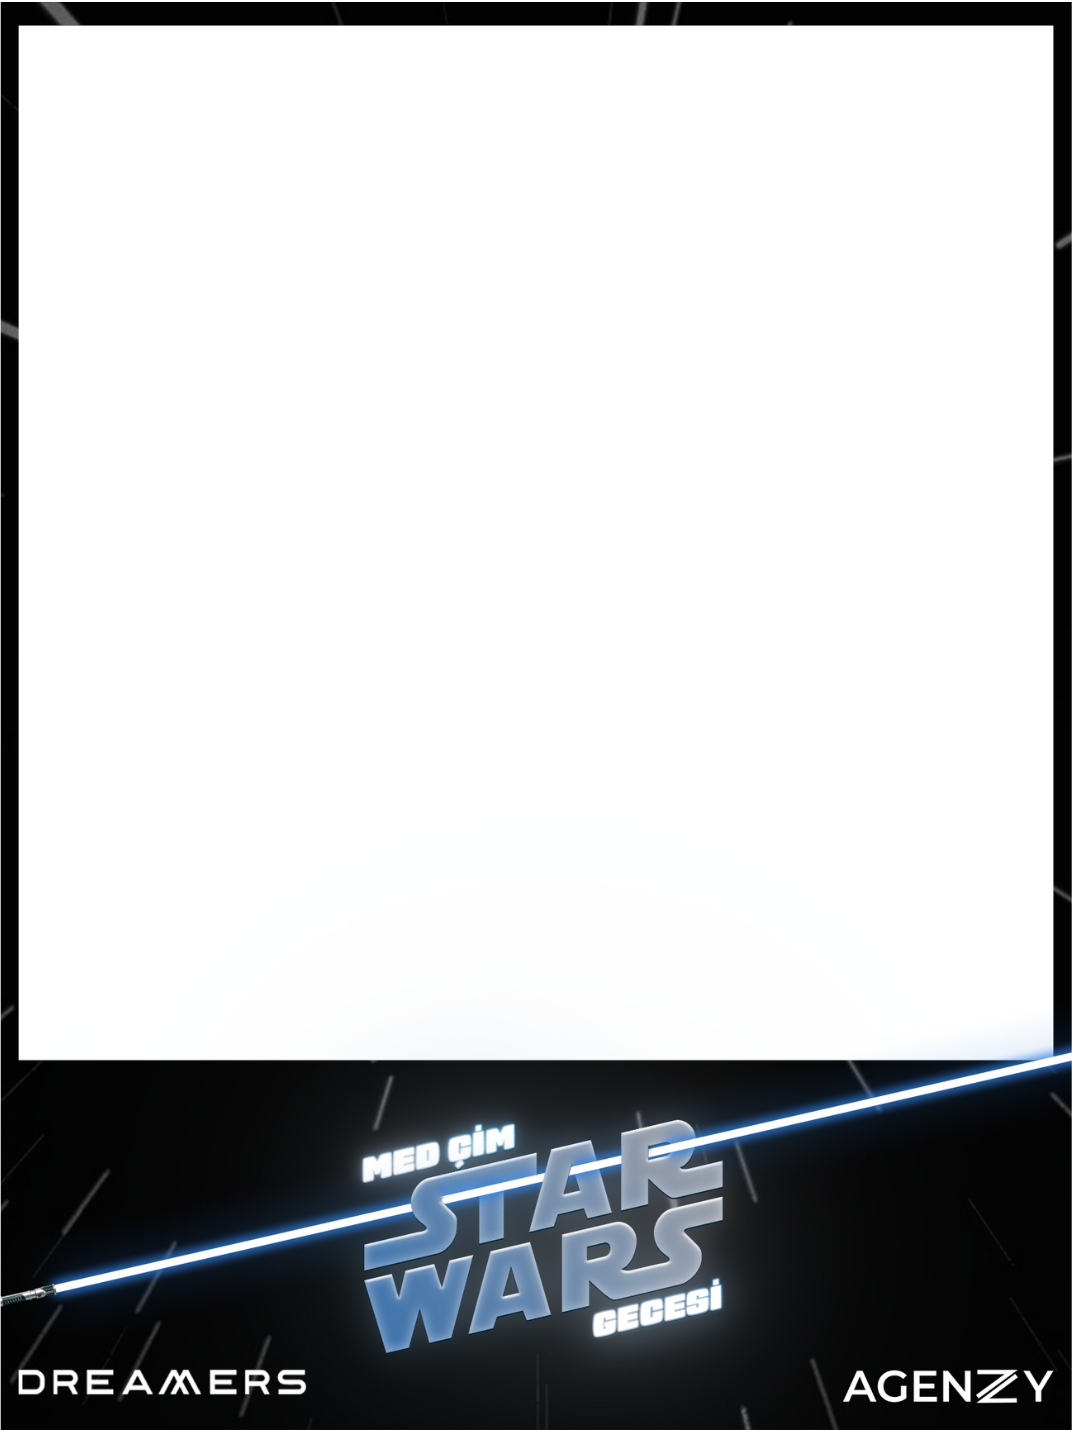
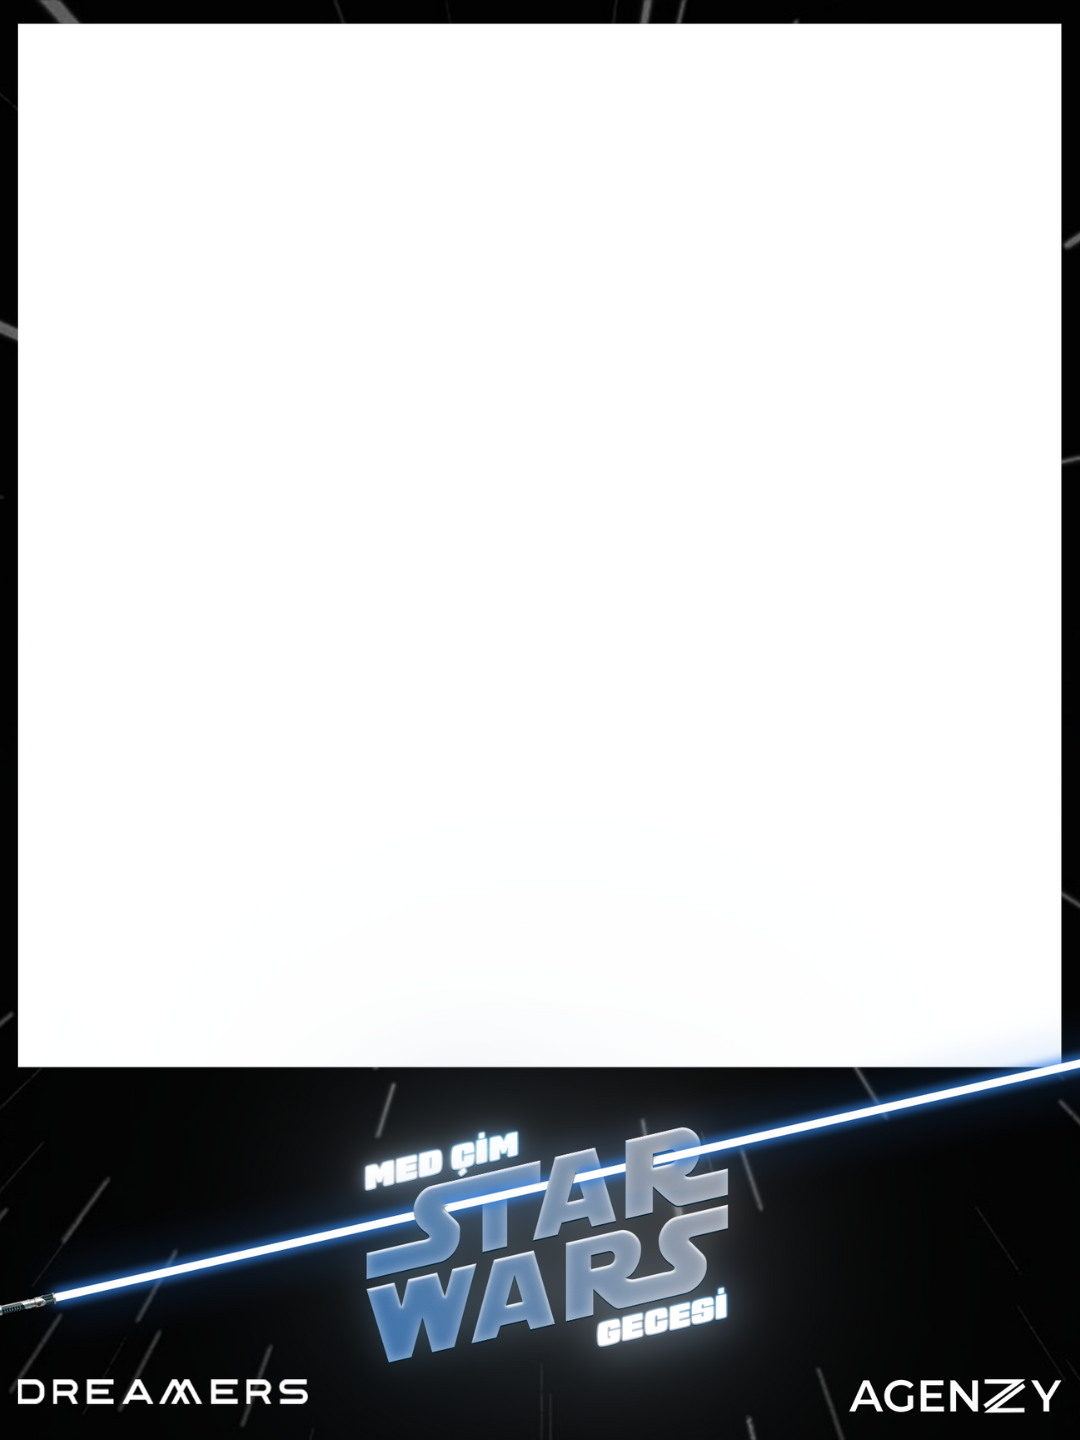
fix: try new things

diff --git a/src/storage/storage.service.ts b/src/storage/storage.service.ts
@@ -16,6 +16,10 @@ export class StorageService {
       if (framed) {
         // Load images
         const image_buf = Buffer.from(image64, 'base64');
+        // resize file to be 1024x1024
+        const resizedImageBuffer = await sharp(image_buf).resize(1024, 1024, {
+          fit: 'cover'
+        }).toBuffer();
         const frame_path = join(__dirname, '../assets/sw-frame.png');
         const frame_logo_path = join(__dirname, '../assets/frame_logo.png');
         const frame = sharp(frame_path);
@@ -23,7 +27,7 @@ export class StorageService {
 
         // Compose
         const result_buf = await frame.composite([
-          { input: image_buf, top: 25, left: 24},
+          { input: resizedImageBuffer, top: 20, left: 20, },
           { input: frame_logo }
         ]).toBuffer();
 
